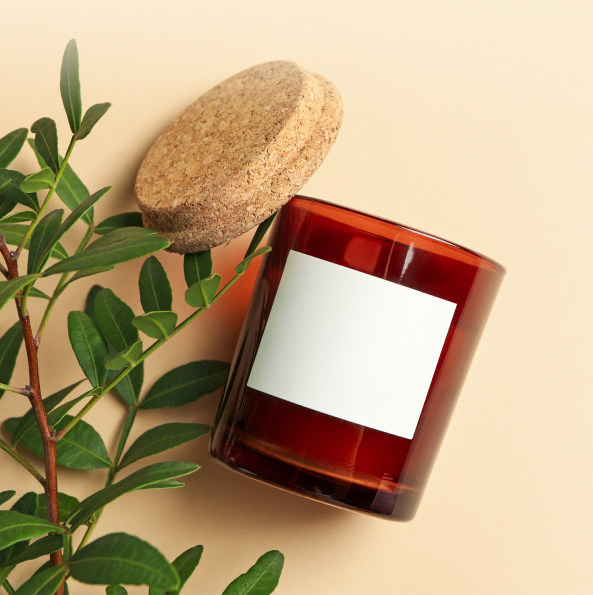
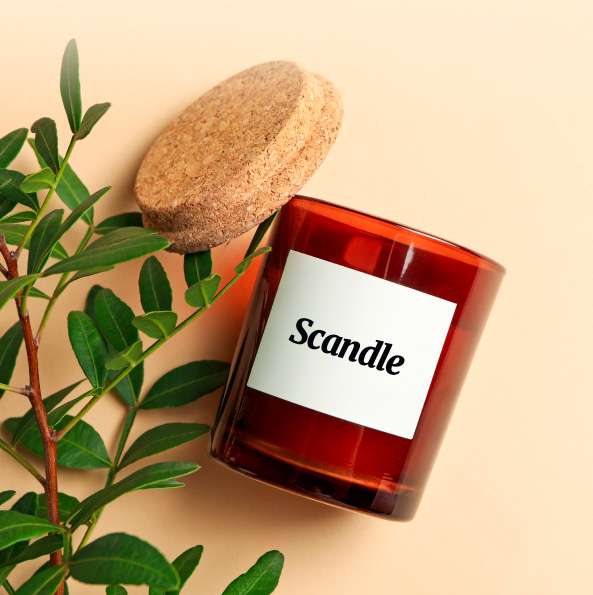
PreEntrega1+RegaliEduardo V1.0

diff --git a/src/components/ItemListContainer/ItemListContainer.jsx b/src/components/ItemListContainer/ItemListContainer.jsx
@@ -10,7 +10,7 @@ function ItemListContainer({greeting}) {
         <img src={BannerImg} alt='Vela'/>
         <div className="contenidoBanner">
             <h2 className='greeting'>{greeting}</h2>
-            <h1>Siempre <span>refresca y calma</span> <br/> tus sentimientos disponibles <br/> con una variedad de <span className='spanVela'>Scandle</span></h1>
+            <h1>Siempre <span>refresca y calma</span> <br/> tus sentimientos con una <br/>variedad de <span className='spanVela'>Scandle</span></h1>
             <button>PRODUCTOS</button>
         </div>
     </div>

diff --git a/src/App.jsx b/src/App.jsx
@@ -7,7 +7,7 @@ function App() {
   return (
     <>
       <Navbar/>
-      <ItemListContainer greeting={"#SCANDLEXPERIENCE 2024"}/>
+      <ItemListContainer greeting={"#SCANDLEXPERIENCE"}/>
     </>
   );
 }

diff --git a/src/components/ItemListContainer/itemListContainerStyled.css b/src/components/ItemListContainer/itemListContainerStyled.css
@@ -30,6 +30,7 @@
 .spanVela {
     font-family: 'La Belle Aurore', cursive;
     color: #C9A489;
+    font-size: 70px;
 
 }
 
